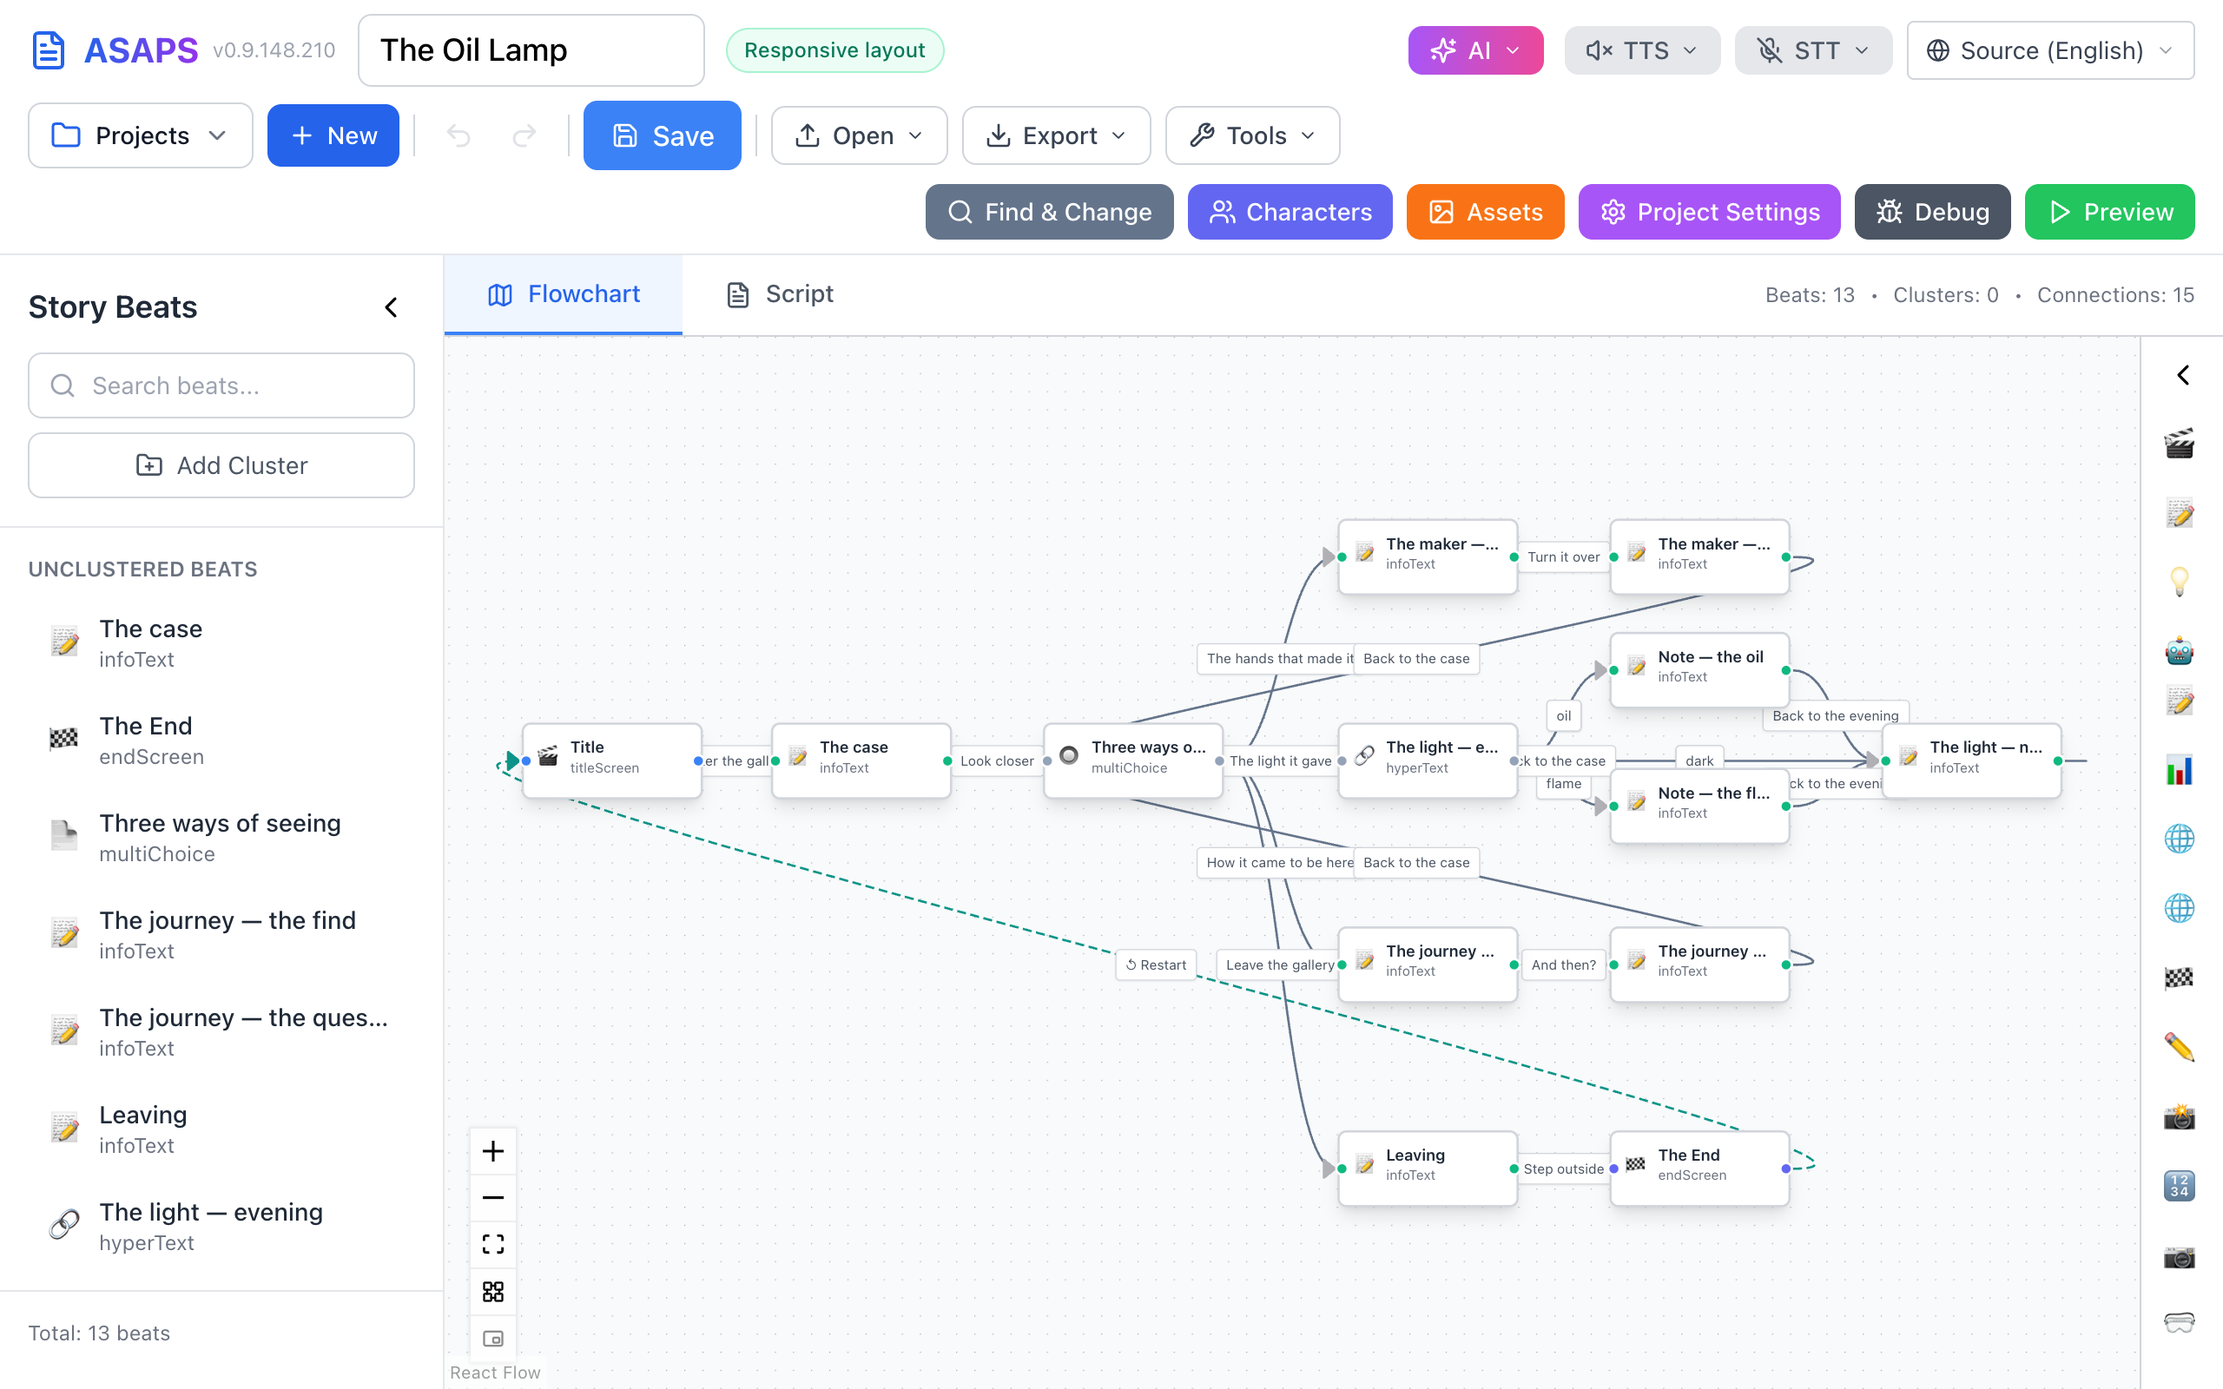
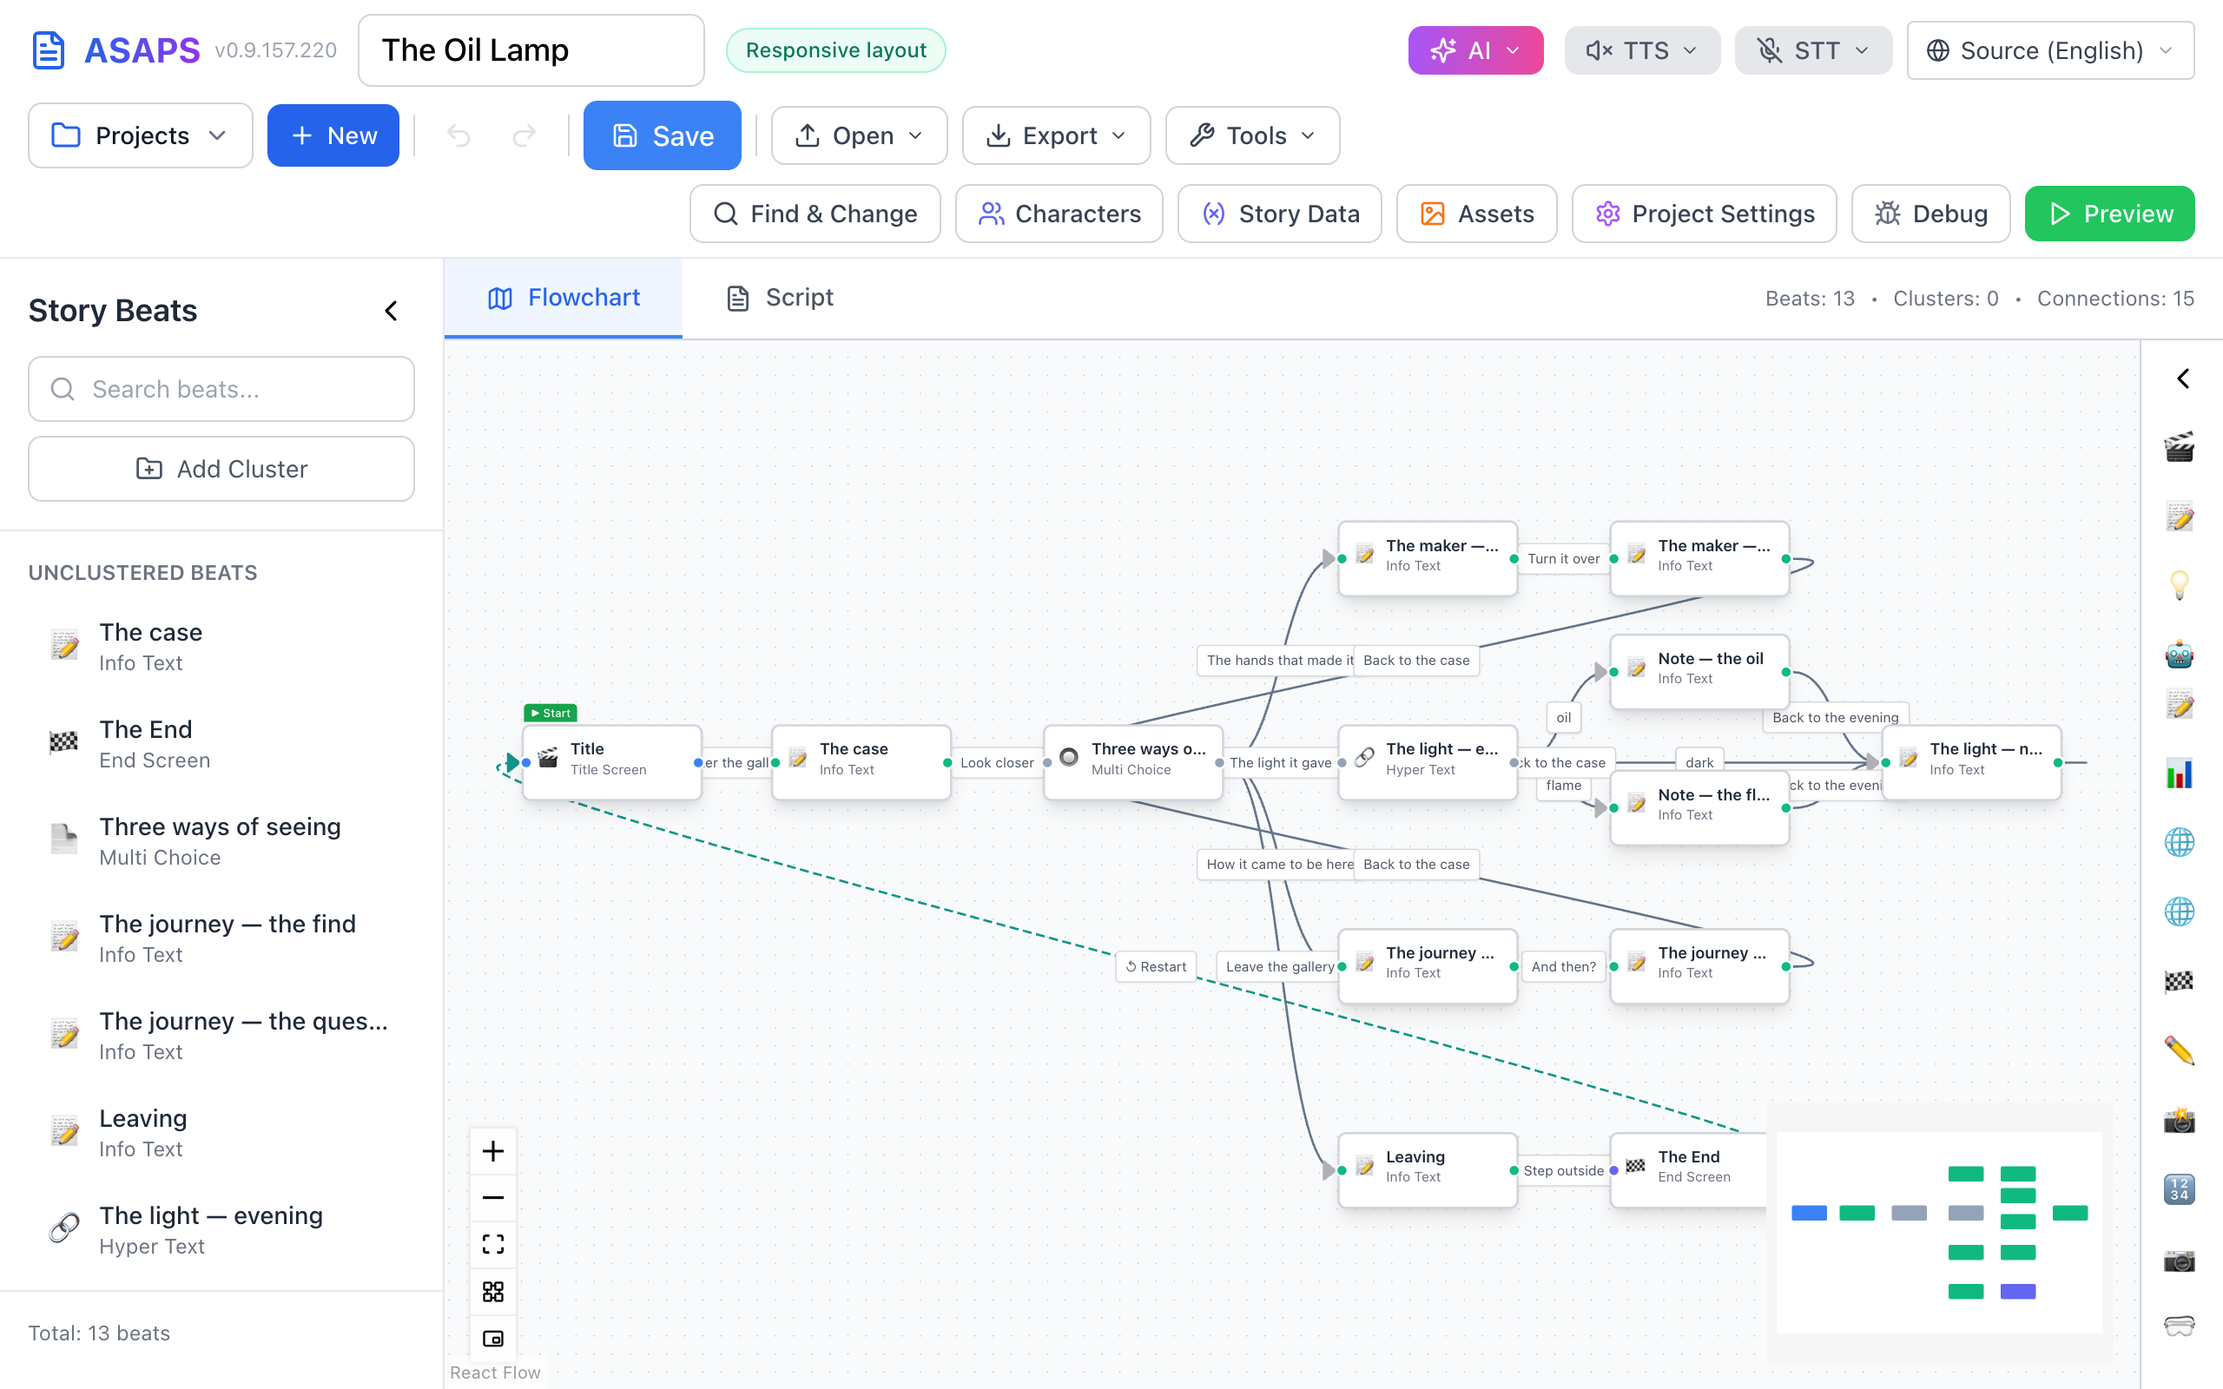
docs: guide screenshots retaken for the new layout; Story Data and Look pictures added
Claude-Session: https://claude.ai/code/session_01EaMWVTtgvmkYMRuNpb9Wym

diff --git a/docs/USER_GUIDE.md b/docs/USER_GUIDE.md
@@ -414,12 +414,12 @@ On a narrow window these buttons wrap onto a line of their own below the title, 
 
 | Right Side | What it Does |
 |------------|--------------|
-| **Find & Change** | Find & replace, and AI bulk changes (slate button, Ctrl/Cmd+F) — see [Find & Change](#find-and-change) |
-| **Characters** | Create and manage your cast, the story's list of [items](#project-items) and its [roles](#roles) (blue button) |
-| **Story Data** | The story's variables and counters, and the beats that set and test them (indigo button) — see [Story Data](#story-data) |
-| **Assets** | Manage images, sounds, videos, fonts (orange button) |
-| **Project Settings** | Everything that travels with this project — stage, fonts, colours, HUDs (purple button, ⌘/Ctrl+,). Where this guide says **Project Settings ▸ …**, it means this window — see [Project Settings](#global-settings) |
-| **Debug** | Testing and troubleshooting tools (gray button) |
+| **Find & Change** | Find & replace, and AI bulk changes (Ctrl/Cmd+F) — see [Find & Change](#find-and-change) |
+| **Characters** | Create and manage your cast, the story's list of [items](#project-items) and its [roles](#roles) |
+| **Story Data** | The story's variables and counters, and the beats that set and test them — see [Story Data](#story-data) |
+| **Assets** | Manage images, sounds, videos, fonts |
+| **Project Settings** | Everything that travels with this project — stage, fonts, colours, HUDs (⌘/Ctrl+,). Where this guide says **Project Settings ▸ …**, it means this window — see [Project Settings](#global-settings) |
+| **Debug** | Testing and troubleshooting tools |
 | **Preview** | Test your system (green button) |
 
 <a id="dark-mode"></a>
@@ -1436,7 +1436,7 @@ If evaluation fails (unknown name, division by zero, syntax error), the raw stri
 <a id="story-data"></a>
 #### Story Data: every variable and counter in one place
 
-As a story grows, it gets hard to remember which beat sets `hasKey` and which ones check it. **Story Data** keeps track for you. Click the **Story Data** button in the toolbar (indigo, beside **Characters**). The window has two tabs, **Variables** and **Counters**, each showing how many there are.
+As a story grows, it gets hard to remember which beat sets `hasKey` and which ones check it. **Story Data** keeps track for you. Click the **Story Data** button in the toolbar (beside **Characters**). The window has two tabs, **Variables** and **Counters**, each showing how many there are.
 
 **The Variables tab** is your story's list of variables. Click **Add Variable** and fill in:
 
@@ -1447,6 +1447,8 @@ As a story grows, it gets hard to remember which beat sets `hasKey` and which on
 - **Keep across restarts** — the variable keeps its value when the player restarts from an ending; see [Keeping just some things across a restart](#keep-across-restarts).
 
 A name, starting value or description takes effect when you leave the field or press Enter. Every change applies at once and can be undone with Undo. The bin button on the right removes a variable from the list.
+
+![Story Data ▸ Variables: the variable wonderName, a Text variable with a description, set in "Name the wonder" and shown in "Journal entry"](images/111-story-data-variables.png)
 
 You don't have to list a variable before using it: you can also name a new one in a Set Variable beat or a choice's effect. And one variable is built in: **playthrough** counts the runs (1, 2, …); use `${playthrough}` in text or test it in a condition.
 
@@ -1464,6 +1466,8 @@ Click a beat's name and the window closes and takes you to that beat. *nowhere y
 
 - **Story counters** — numbers that belong to the story and not to a character: a score, the days passed. There is nothing to set up. A story counter starts at 0 and exists as soon as a choice's effect or a Set Variable/Counter beat changes it, so this list fills itself as you write. Each counter has its **Set in** and **Tested in** beats.
 - **Characters' counters** — trust, health, courage: the numbers a character carries, grouped by character, each with its starting value and the beats that use it. You can't edit them here; their names, starting values and meters are set on the character. **Edit in Characters** opens the Characters window (see [Character Counters](#character-counters-stats)). A counter that [follows a character's feelings](#counter-binding) says so in place of **Set in**, because it isn't set directly: choices change the feeling it shows.
+
+![Story Data ▸ Counters: no story counters yet, and the character Ada's counters: gold, which starts at 12, and trust, fear and spirits, which follow her feelings](images/112-story-data-counters.png)
 
 ---
 
@@ -2118,7 +2122,7 @@ Sometimes the person in a scene depends on what happened earlier: the confidant 
 
 **Default (before anyone is chosen)** picks who stands in until the story decides; left at *First of the list*, the first ticked character does. Two checkboxes finish the role: **Can be recast later** allows a second casting to replace the first (otherwise Story Warnings and the review banner flag it), and **Keep across restarts** lets an ending's Restart keep who plays it. Everything you change on this tab applies at once (there is no Save button to click) and can be undone with Undo. The *Referenced as* id takes effect when you leave the field or press Enter. Changing it updates every beat that uses it — speakers, AI partners, `${@…}` text, Cast Role effects, choice conditions, Condition Check beats, beat Requirements and Choose Your Character — as one step you can undo, and a short notice tells you how many beats were updated. If you leave the id empty or type one another role already has, the old id comes back.
 
-![A role named "The player", referenced as @player, playable by Mara and Jonas, chosen in the story. The picture shows the role in its former place in Project Settings.](images/82-project-settings-roles.png)
+![Characters ▸ Roles: a role named "The player", referenced as @player, playable by Mara and Jonas, chosen in the story; below it the start of "The confidant"](images/82-characters-roles.png)
 *A role's fields. They look the same in Characters ▸ Roles, where roles live now; the picture was taken when they were still a tab of Project Settings.*
 
 **Using a role.** Roles appear as *@ The confidant* in the character pickers: a beat's **Speaker** (below *Narrator* and the player), an AI Conversation's or AI Dialog Tree's **NPC** (every role except `player`), and the character an affect effect such as **Add Sentiment** or **Fire Emotion** is aimed at (listed first). Each Dialog Tree line's speaker picker lists them too. In text, write:
@@ -4220,10 +4224,10 @@ Use sprite sheets for frame-by-frame animation:
 <a id="global-settings"></a>
 ### Project Settings
 
-![Settings Panel](images/02-settings-panel.png)
+![Project Settings, on the Project tab: "Story starts at" at the top, then the stage and layout settings](images/02-settings-panel.png)
 *The Settings panel*
 
-Open it with the purple **Project Settings** button (⌘/Ctrl+,). The tabs along the top group the settings by what they do: **Project**, **Look**, **Dialogue**, **Screen panels**, **Sound**, **Languages & culture** and **About**. One more tab, **Location & AR**, shows up only when your story uses location (see below). The window reopens on the tab you used last, and nothing changes in your project until you click **Save Settings**.
+Open it with the **Project Settings** button (⌘/Ctrl+,). The tabs along the top group the settings by what they do: **Project**, **Look**, **Dialogue**, **Screen panels**, **Sound**, **Languages & culture** and **About**. One more tab, **Location & AR**, shows up only when your story uses location (see below). The window reopens on the tab you used last, and nothing changes in your project until you click **Save Settings**.
 
 Two things that used to be tabs here now have a home of their own, because you come back to them while you write: variables are in [Story Data ▸ Variables](#story-data), and roles are in [Characters ▸ Roles](#roles).
 
@@ -4237,6 +4241,8 @@ Two things that used to be tabs here now have a home of their own, because you c
 - In the desktop app, the project's folder is shown at the bottom of the tab.
 
 **Project Settings ▸ Look** has five sections. Pick one with the pills just under the tabs: **Colours**, **Fonts**, **Text box**, **Text & button motion** and **Hotspots**.
+
+![Project Settings ▸ Look, with the five section pills under the tabs and the Colours section open](images/113-project-settings-look.png)
 
 **Project Settings ▸ Look ▸ Colours:**
 - Button colors
@@ -4300,8 +4306,8 @@ Since v0.9.71, both Box Visibility and opacity apply **everywhere**: the Visual 
 
 - <a id="message-history"></a>**Message history** — lets players reopen the conversations they have had so far, like the chats in a messenger app. Every Dialog Tree played becomes one chat, named after the people in it, with the lines as they were shown (with the speaker's look at the time) and the player's replies on the right. A conversation played again continues the same chat after a small *· · ·* divider. It's history only: nothing replays, and closing it (**Close**, a click outside, or Esc) takes the player back to where they were. Players open it from the player's **Menu → Messages**; while you test, the Preview Window's toolbar has a speech-bubbles button for it. The history is kept in saved games and starts empty when the story restarts (or when an End Screen resets *History*). Off by default.
 
-![The former HUD tab of Project Settings: Compact HUD on phones, "Show HUDs on the title screen" unticked, and "Message history" ticked with its explanation.](images/88-project-settings-message-history.png)
-*Message history is one tick. This picture shows it where it used to be, on the HUD tab; you'll now find it at the bottom of Project Settings ▸ Dialogue.*
+![Project Settings ▸ Dialogue, scrolled to the end: "Show lines as", "Show the player's replies as", "Dim characters who aren't speaking", and "Message history" ticked with its explanation.](images/88-project-settings-message-history.png)
+*Message history is one tick, at the bottom of Project Settings ▸ Dialogue.*
 
 ![The Messages panel over the story: on the left one chat, "Wolf", with his latest line; on the right the conversation, the Wolf's two lines with his friendly and then his angry picture, and the player's reply "Sweets for my granny." on the right in gold.](images/91-message-history.png)
 *The message history in the Preview. Each line keeps the picture the speaker had when it was said.*
@@ -4887,7 +4893,7 @@ The ASAPS Desktop app (built with Electron) runs on macOS and Windows, and as a 
 - **Native file dialogs** - Save/open using OS file picker
 - **Git integration** - Full VCS support (see Part 9)
 - **Local file access** - Direct read/write without browser limitations
-- **Two kinds of settings** - **Project Settings** (⌘, or the purple header button) holds everything saved with the project — stage size, fonts, colors, HUDs, whether an exported player reads text aloud — so everyone who opens or exports it gets the same result. **App Preferences** (Tools → App Preferences…, or ⌘⌥, in the app menu) holds what belongs to this computer: light or dark [appearance](#dark-mode), the builder's [reading font](#reading-font), AI, voice and speech-input providers with their keys, the Brave web-search key, automatic updates, the Claude Desktop (MCP) integration, and whether the AI features and beat suggestions are shown at all.
+- **Two kinds of settings** - **Project Settings** (⌘, or the Project Settings button) holds everything saved with the project — stage size, fonts, colors, HUDs, whether an exported player reads text aloud — so everyone who opens or exports it gets the same result. **App Preferences** (Tools → App Preferences…, or ⌘⌥, in the app menu) holds what belongs to this computer: light or dark [appearance](#dark-mode), the builder's [reading font](#reading-font), AI, voice and speech-input providers with their keys, the Brave web-search key, automatic updates, the Claude Desktop (MCP) integration, and whether the AI features and beat suggestions are shown at all.
 - **Updates and quitting** - **Help → Check for Updates…** looks for a newer version; when there is none, it says *You are already running the latest version* and names the version you have. When an update has downloaded, ASAPS offers **Restart Now** or **Later**. Restarting — like quitting — first finishes saving your open project, so nothing in flight is lost. In the rare case something still can't be saved, ASAPS asks before going on: *"Some changes could not be saved."* Choose **Restart and install** (or **Close anyway** when you're just quitting) to go ahead without those changes, or **Cancel** to keep working and save first — a postponed update installs the next time you quit.
 - **Report a bug** - **Help → Report a Bug…** opens a bug report on GitHub in your browser with the app version, build number, operating system and runtime already filled in. You describe what happened and submit it there; nothing is sent until you do, and no project content is included. **Help → Known Issues** lists the open bug reports.
 - **When a link won't open** - Help → Documentation, Report a Bug…, Known Issues, the **Open Releases Page** button (offered when an update can't download), and other web links you click in ASAPS all open in your web browser. If your computer declines to open one (usually because no default browser is set), ASAPS shows **Couldn't open your browser** with the address and a **Copy Link** button, so you can paste it into any browser yourself. If it keeps happening on Windows, set a default browser under **Settings › Apps › Default apps**, and make sure you're not running ASAPS as administrator.

diff --git a/Progress.md b/Progress.md
@@ -24,7 +24,7 @@ Thirteen tabs became seven (eight with location beats), none behind the scroll a
 - **About:** copyright.
 - **Variables** moved to the Story Data window (below).
 - **HTML export follows it:** the export window's Start beat now defaults to "Story starts at" when one is set (before: the selected beat, else the Title Screen, whatever the setting said). Without a set start it defaults to the Title Screen (else the first beat), no longer to the beat selected in the editor, which made it easy to export from the middle by accident (user decision 2026-11-17).
-- **User Guide** updated for the new tabs, Characters ▸ Roles, Story Data (`#story-data`) and New / Browse. Screenshots to retake: 01, 02, 03, 82, 88, 106; new ones wanted for Story Data and Look.
+- **User Guide** updated for the new tabs, Characters ▸ Roles, Story Data (`#story-data`) and New / Browse. Screenshots retaken in the browser build at 2x: 01 main window, 02 Project Settings, 03 Characters, 82 (now `82-characters-roles.png`), 88 Message history under Dialogue, 106 Items; new: 111 Story Data ▸ Variables, 112 Story Data ▸ Counters, 113 Look with its section pills. The guide no longer names toolbar buttons by colour.
 - **Removed:** the Debug tab, and "Show variable/counter values during preview", which nothing read (the Preview has its own button).
 - Stored settings are unchanged; only where they are edited moved. In-app texts that name a tab were updated.
 - **Files:** `packages/builder/src/components/settings/GlobalSettingsInspector.tsx` (+ `__tests__/GlobalSettingsInspector.tabs.test.tsx`), `components/{Inspector,NewProjectDialog}.tsx`, `components/visual/{BeatLookSection,SpeakFromPicker}.tsx`, `components/knowledgeGraph/KnowledgeGraphView.tsx`, `components/ai/codesigner/systemPrompt.ts`, `editors/{SpatialPositionEditor,XRLocationsEditor}.tsx`
